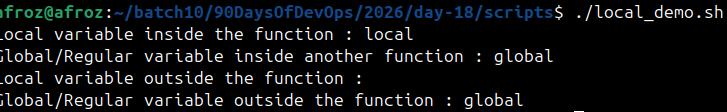
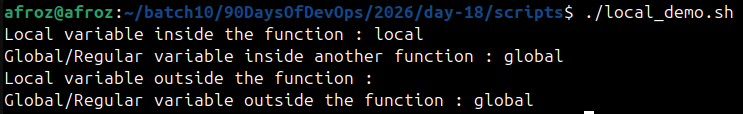
Added day 18

diff --git a/2026/day-18/day-18-scripting.md b/2026/day-18/day-18-scripting.md
@@ -69,8 +69,6 @@ Create `system_info.sh` that uses functions for everything:
    
    ![snapshot](images/system_info.png)
 
-Output should look clean and readable.
-
 ---
 
 